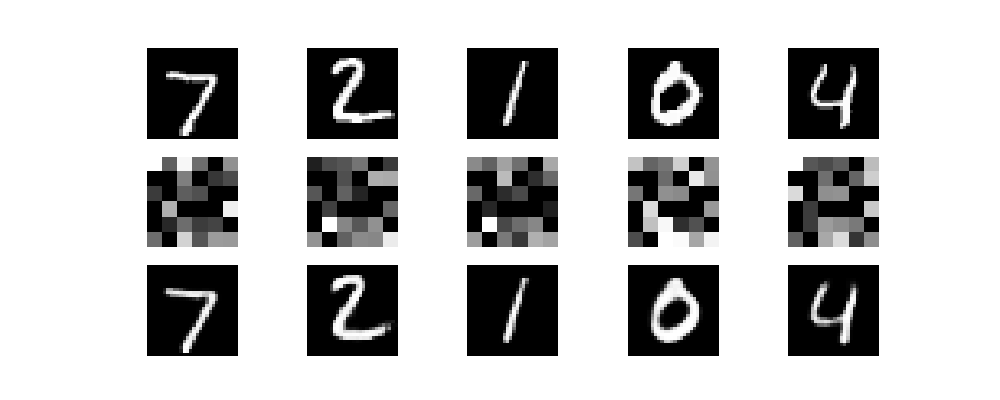
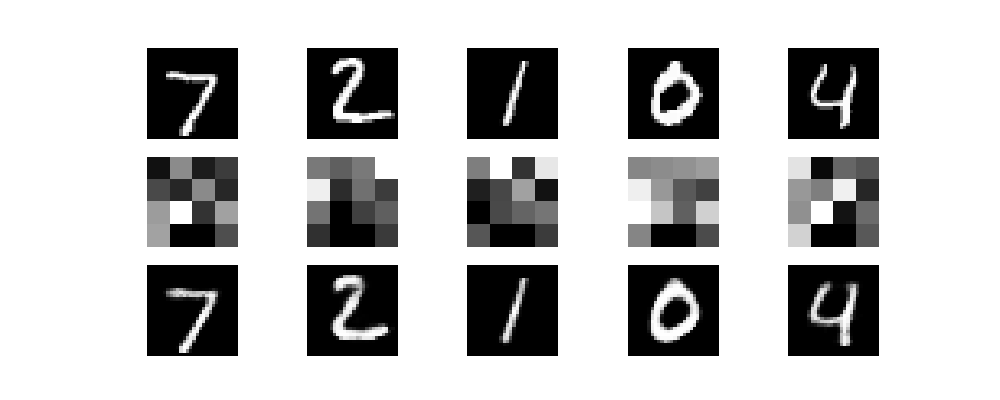
Teste generation

diff --git a/auto_encoder_class.py b/auto_encoder_class.py
@@ -29,19 +29,17 @@ class AutoEncoder:
         self.params.extend(self.encode_bias)
         self.params.extend(self.decode_parameters)
         self.params.extend(self.decode_bias)
-        
-        # Initialiser les états pour chaque optimiseur (sgd classique n'en a pas besoin)
-        self.init_optimizer_states()
 
-    def init_optimizer_states(self):
-        """Initialise les états pour momentum et Adam"""
-        # Pour SGD + Momentum
-        self.velocities = {i: torch.zeros_like(p) for i, p in enumerate(self.params)}
-        
-        # Pour Adam
+        # retiens les loss
+        self.loss_history = []
+
+        # Param Adam
         self.m = {i: torch.zeros_like(p) for i, p in enumerate(self.params)}  # Premier moment (momentum)
         self.v = {i: torch.zeros_like(p) for i, p in enumerate(self.params)}  # Second moment (RMSprop)
         self.t = 0  # Compteur de pas pour bias correction
+
+        # Param NAG
+        self.j = 0
 
     # Encode -> compression des données
     def encode(self, X, activation_function=torch.relu):
@@ -52,6 +50,7 @@ class AutoEncoder:
     
     # Decode -> Retranscription des données
     def decode(self, X, activation_function=torch.relu):
+        X = X.to(torch.float32)
         for i in range(self.decode_layers-1):
             X = activation_function(torch.matmul(X, self.decode_parameters[i]) + self.decode_bias[i])
         X = torch.sigmoid(torch.matmul(X, self.decode_parameters[-1]) + self.decode_bias[-1])
@@ -76,16 +75,33 @@ class AutoEncoder:
                     p.data -= learning_rate * p.grad
                     p.grad.zero_()
 
-    def momentum_step(self, learning_rate, momentum=0.9):
-        """SGD + Momentum"""
+    def nag_function_restart_step(self,learning_rate,b=3,kmin=50):
+        
+        # Restart de beta(parametre de friction) si la loss augmente
+        if self.j >= kmin and self.loss_history[-2] < self.loss_history[-1] :
+            self.j = 0
+        else:
+            self.j += 1
+        
+        # Vanishing friction 
+        beta_j = self.j / (b + self.j)
+
         with torch.no_grad():
             for i, p in enumerate(self.params):
                 if p.grad is not None:
-                    # velocity = momentum * velocity + gradient
-                    self.velocities[i] = momentum * self.velocities[i] + p.grad
-                    # param = param - lr * velocity
-                    p.data -= learning_rate * self.velocities[i]
+                    grad = p.grad
+                    
+                    # Etape 1 : Descente de gradient classique
+                    m_next = p - learning_rate*grad
+
+                    # Etape 2 : Momentum Nesterov
+                    p.data = m_next + beta_j*(m_next - self.m[i])
+                    
+                    # Etape 3 : Actualise le point de descente
+                    self.m[i] = m_next
+
                     p.grad.zero_()
+
 
     def adam_step(self, learning_rate, beta1=0.9, beta2=0.999, eps=1e-8):
         """
@@ -109,21 +125,17 @@ class AutoEncoder:
                 if p.grad is not None:
                     grad = p.grad
                     
-                    # Étape 1: Mettre à jour le premier moment (momentum)
-                    # m = beta1 * m + (1 - beta1) * gradient
-                    self.m[i] = beta1 * self.m[i] + (1 - beta1) * grad
+                    # Etape 1: Mettre à jour le premier moment (momentum)
+                    self.m[i] = (1-beta1) * self.m[i] + beta1 * grad
+                
+                    # Etape 2: Mettre à jour le second moment (variance du gradient)
+                    self.v[i] = (1-beta2) * self.v[i] + beta2 * (grad ** 2)
                     
-                    # Étape 2: Mettre à jour le second moment (variance du gradient)
-                    # v = beta2 * v + (1 - beta2) * gradient²
-                    self.v[i] = beta2 * self.v[i] + (1 - beta2) * (grad ** 2)
-                    
-                    # Étape 3: Bias correction (important au début!)
-                    # Au début, m et v sont biaisés vers 0 car initialisés à 0
+                    # Etape 3: Bias correction (important au début!)
                     m_hat = self.m[i] / (1 - beta1 ** self.t)
                     v_hat = self.v[i] / (1 - beta2 ** self.t)
                     
-                    # Étape 4: Mise à jour du paramètre
-                    # param = param - lr * m_hat / (sqrt(v_hat) + eps)
+                    # Etape 4: Mise à jour du paramètre
                     p.data -= learning_rate * m_hat / (torch.sqrt(v_hat) + eps)
                     
                     p.grad.zero_()
@@ -136,41 +148,43 @@ class AutoEncoder:
             X: données d'entraînement
             learning_rate: taux d'apprentissage
             epochs: nombre d'époques
-            optimizer: 'sgd', 'momentum', ou 'adam'
+            optimizer: 'sgd', 'adam' ou 'nag_restart_function'
             **kwargs: arguments supplémentaires pour l'optimiseur
         """
         
         n = X.shape[0]
         chunk_nb = n // kwargs.get('batch_size' , 200)
         chunks = torch.chunk(X, chunk_nb)
-
+        
+        
         for epoch in range(epochs):
             # Forward pass
             indice = np.random.randint(chunk_nb)
-
             X_batched = chunks[indice]
-
             X_pred_batched = self.forward(X_batched)
-            loss = self.mse_loss(X_pred_batched, X_batched)
             
+            loss = self.mse_loss(X_pred_batched, X_batched)
+            self.loss_history.append(loss.item())
+
             # Backward pass
             loss.backward()
             
             # Optimizer step
             if optimizer == 'sgd':
                 self.sgd_step(learning_rate)
-            elif optimizer == 'momentum':
-                momentum = kwargs.get('momentum', 0.9)
-                self.momentum_step(learning_rate, momentum)
             elif optimizer == 'adam':
                 beta1 = kwargs.get('beta1', 0.9)
                 beta2 = kwargs.get('beta2', 0.999)
                 eps = kwargs.get('eps', 1e-8)
                 self.adam_step(learning_rate, beta1, beta2, eps)
+            elif optimizer == "nag_restart_function":
+                self.j = 0
+                b = kwargs.get('b', 3)
+                kmin = kwargs.get('kmin', 50)
+                self.nag_function_restart_step(learning_rate,b,kmin)
             else:
                 raise ValueError(f"Optimiseur inconnu: {optimizer}")
             
             if epoch % 100 == 0:
                 print(f"[{optimizer.upper()}] Epoch {epoch:4d}, Loss: {loss.item():.6f}")
-
 

diff --git a/test_data_MNIST.py b/test_data_MNIST.py
@@ -2,6 +2,7 @@ from torchvision import datasets, transforms
 import matplotlib.pyplot as plt
 import numpy as np
 from auto_encoder_class import AutoEncoder
+import torch
 
 # Utiliser un transform pour normaliser les données en tensor
 transform = transforms.Compose([
@@ -33,29 +34,54 @@ for i in range(10):
     axs[i // 5, i % 5].set_title(f'Label: {label}') 
     axs[i // 5, i % 5].axis('off')  # Désactiver les axes
 
-plt.savefig("mnist_images.png")  
+plt.savefig("mnist_images.png")
 
-ae = AutoEncoder(input_dim=784, hidden_dim=36, encode_layers=3, decode_layers=3)  # Créer une instance de l'autoencodeur
+p = 4
+hidden_dim = p**2
+ae = AutoEncoder(input_dim=784, hidden_dim=hidden_dim, encode_layers=2, decode_layers=2)  # Créer une instance de l'autoencodeur
+
 
 X_train = mnist_train.data
 X_train = X_train.reshape(-1, 784) / 255  # Reshape les données d'entraînement pour qu'elles soient compatibles avec l'autoencodeur
 X_test = mnist_test.data
 X_test = X_test.reshape(-1, 784) / 255
 
-ae.train(X_train,0.001,100001)  # Entraîner l'autoencodeur sur les données d'entraînement
+ae.train(X_train,0.001,10001,optimizer="adam")  # Entraîner l'autoencodeur sur les données d'entraînement
 
 # Test l'autoencodeur sur des données de test
+
 m = int(5)
-encoded_test = ae.encode(X_test[:m])
+encoded_test = ae.encode(X_test)
 decoded_test = ae.decode(encoded_test)
+encoded_test_numpy = encoded_test.detach().numpy()
+decoded_test_numpy = decoded_test.detach().numpy()
 
 fig, axs = plt.subplots(3, 5, figsize=(10, 4))
 for i in range(m):
     axs[0, i].imshow(X_test[i].reshape(28, 28), cmap='gray')
-    axs[1, i].imshow(encoded_test[i].detach().numpy().reshape(6,6), cmap='gray')
-    axs[2, i].imshow(decoded_test[i].detach().numpy().reshape(28, 28), cmap='gray')
+    encoded_img = encoded_test_numpy[i].reshape(p,p)
+    decoded_img = decoded_test_numpy[i].reshape(28,28)
+    axs[1, i].imshow(encoded_img, cmap='gray')
+    axs[2, i].imshow(decoded_img, cmap='gray')
     axs[0, i].axis('off')
     axs[1, i].axis('off')    
     axs[2, i].axis('off')
 
 plt.savefig("autoencoder_test_result.png")  # Enregistrer la figure sous le nom "autoencoder_result.png"
+
+# Test decode à partir de bruit sur l'espace latent
+
+latent_space = encoded_test 
+
+fig, axs = plt.subplots(2, 5, figsize=(15, 6))
+for i in range(m):
+    idx = np.random.randint(latent_space.shape[0]-1)
+    encoded_img = (latent_space[idx] + latent_space[idx+1]) / 2
+    axs[0, i].imshow(encoded_img.detach().numpy().reshape(p,p), cmap='gray')
+    axs[0, i].set_title(f"Mélange {mnist_test[idx][1]} et {mnist_test[idx+1][1]}")
+    axs[1, i].imshow(ae.decode(encoded_img).detach().numpy().reshape(28,28), cmap='gray')
+    axs[0, i].axis('off')
+    axs[1, i].axis('off')    
+
+
+plt.savefig("noise_decoded.png")  # Enregistrer la figure sous le nom "autoencoder_result.png"
